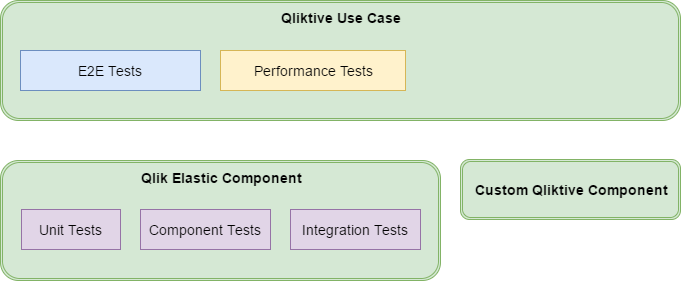
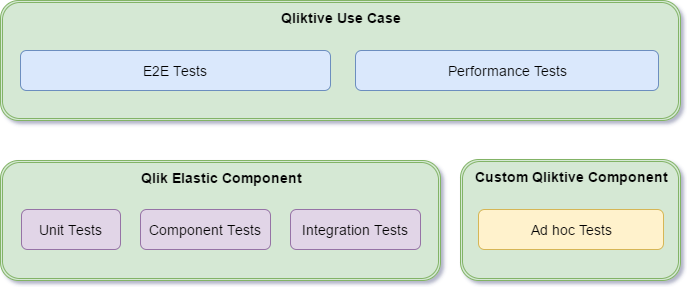
Added Qlik Elastic deliverables and Test Structure

diff --git a/docs/testing-strategy.md b/docs/testing-strategy.md
@@ -1,6 +1,8 @@
-# Elastic Testing Strategy
+# Qlik Elastic Testing Strategy
+
 ## Test levels
-Elastic microservices and the Qlik Elastic use cases are developed with a test strategy that defines different test levels in a typical test pyramid set up.
+
+Qlik Elastic microservices and the Qlik Elastic use cases are developed with a test strategy that defines different test levels in a typical test pyramid set up.
 
 ![Data model](./images/test-pyramid.png)
 
@@ -9,17 +11,31 @@ Elastic microservices and the Qlik Elastic use cases are developed with a test s
 * The pyramid describes from where we should be extracting the most test coverage
 
 ### End-2-End
-The topmost test level applies to end-to-end scenarios which for Elastic typically is testing the actual deployment from end-user perspective, typically acceptance tests and customer oriented tests. Can also include testing specific interactions between services collaborating in the system by inspecting internal behavior of the system.
+
+The topmost test level applies to end-to-end scenarios which for Qlik Elastic typically is testing the actual deployment from end-user perspective, typically acceptance tests and customer oriented tests. Can also include testing specific interactions between services collaborating in the system by inspecting internal behavior of the system.
 
 The next three lower test levels apply to microservices/components. How much testing and what specific test environments that are developed at each of these levels also depends a lot on the characteristics of the microservice/component. Each microservice/component shall provide information on how tests at each of these levels apply.
 
 ### Integration
+
 Integration tests are fully automated tests that run on a "live" environment **without any mocked dependencies** in order to secure a continuous integration and delivery workflow. This is done to ensure that contracts previously fulfilled on a component level also work when not mocked, as some dependencies between services cannot be tested mocked.
 
 ### Component
+
 Component tests limits the scope of the exercised software to a portion of the system under test, manipulating the system through internal code interfaces and **using test doubles to isolate the code under test** from other components. Testing a component is preferably done via contract testing, automation, and manual testing (if needed and applicable). Contract testing should be highlighted as a key component in securing inter-service operability in a microservice architecture.
 
 ### Unit
+
 Unit tests exercise the smallest piece of testable software to determine whether it behaves as expected. A unit test should be **executed in complete isolation** and have no need to have a full, running system. All code that is being developed, no matter in which part of the stack, should be delivered together with corresponding unit tests, and is enforced by code review.
 
-## Test structure
+## Deliverables Test Structure
+
+The image below shows the test structure of the different deliverables of Qlik Elastic and which tests that apply to each category. Read about categories of deliverables [here](../README.md).
+
+![Test structure](./images/test-structure.png)
+
+For a **Qliktive Use Case**, both E2E tests and performance tests are developed. These ensure that Qlik Elastic fulfills the requirements of the specific use case, and indirectly the functional and non-functional requirements of the Qlik Elastic product.
+
+For a **Qlik Elastic Component**, the full suite of unit, component, and integration tests apply. These components come with full support from Qlik since they are core parts of the Qlik Elastic product offering.
+
+For a **Custom Qliktive Component**, an ad-hoc testing is applied. These components are example implementations and are likely not generally applicable. Tests are developed in an on-need basis from case to case.

diff --git a/README.md b/README.md
@@ -1,11 +1,36 @@
 # Qlik Elastic - Early Adopter Info
-Umbrella repo for Qlik Elastic
+
+This is the top-level information repo for Qlik Elastic.
 
 ## Terminology
-Terminology used in Elastic documentation can be found in the [Terminology](./docs/terminology.md) document.
 
-## Use Cases
-- [Custom Analytics UI](./docs/use-cases/use-case-custom-analytics/README.md)
+Terminology used in Qlik Elastic documentation can be found in [Terminology](./docs/terminology.md).
 
-## Elastic Testing Strategy
-Components, microservices, and the example use-case implementations are subject to the [Elastic Testing Strategy](./docs/testing-strategy.md).
+## Qlik Elastic Deliverables
+
+The Qlik Elastic offering consists of deliverables of different categories.
+
+![Deliverables](./docs/images/deliverables.png)
+
+Each category of deliverables is described below.
+
+### Qliktive Use Cases
+
+A fictive company, called **Qliktive**, implements solutions on top of Qlik Elastic. These solutions realize different use cases that leverage the power of the QIX Engine and are used as our showcases of Qlik Elastic. Each Qliktive use case is developed in a repo of its own.
+
+Currently, one use case is provided. As Qlik Elastic is being developed, more use cases will be added.
+
+- Use Case [Custom Analytics UI](./docs/use-cases/use-case-custom-analytics/README.md)
+
+### Qlik Elastic Components
+
+These components are packages and microservices that can be considered as being core parts of the Qlik Elastic offering. They are typically available as ready-to-use components (e.g. as Docker images or as NPM packages). The components are developed to be generic and it is likely that they will be used in most solutions built on Qlik Elastic. Each such component is developed in a separate repo. Some of these components will be available as open source, and some may not. For example, the QIX Engine is only available as a Docker image in Qlik Elastic.
+
+### Custom Qliktive Components
+
+These components are packages and microservices that are developed specifically for a certain Qliktive Use Case. As such, they are not generally re-usable between different solutions. The idea is rather to provide examples and with some parts that can be further built upon for any new solution based on Qlik Elastic. Each such component is developed in a separate repo.
+
+Since these components are more of example implementations, they do not come with the same level of support from Qlik as the core Qlik Elastic Components described above.
+
+## Qlik Elastic Testing Strategy
+Components, microservices, and the example use-case implementations are subject to the [Qlik Elastic Testing Strategy](./docs/testing-strategy.md).
